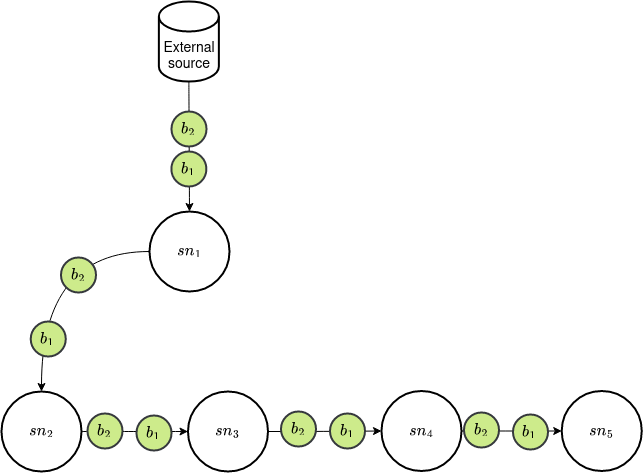
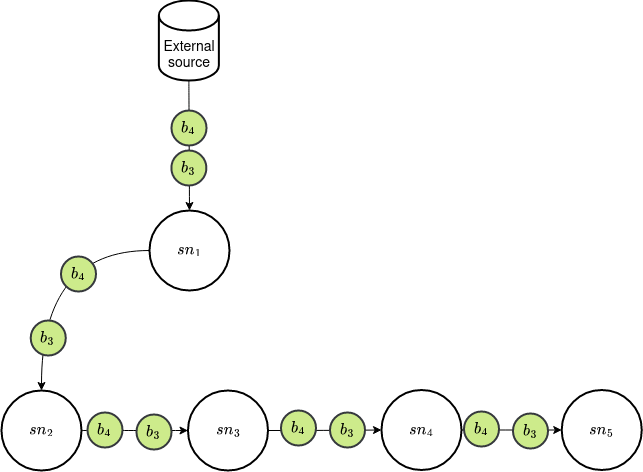
[last version] :fire:

diff --git a/README.md b/README.md
@@ -151,6 +151,162 @@ The result of the replication process is shown below, assuming that /test/sink i
     └── b2
 ```
 
+The second example is create a system that follows the next diagram:
+<div align="center">
+    <a href="#">
+        <img  src="images/ex2.png" alt="Logo" width="450" height="350">
+    </a>
+</div>
+The code that represents the shown diagram is as follows:
+
+```yaml
+[
+  {
+      "who":"",
+      "what":[
+          {
+            "ballId": "b3",
+            "url":"http://www.africau.edu/images/default/sample.pdf",
+            "metadata":{"extension":"pdf"}
+          },
+          {
+            "ballId": "b4",
+            "url":"http://www.africau.edu/images/default/sample.pdf",
+            "metadata":{"extension":"pdf"}
+          }
+      ],
+      "where":[
+          {
+              "id":"sn0_sn1",
+              "metadata":{}
+          }
+      ],
+      "how":{
+          "replicationTechnique":"PASSIVE",
+          "transferType":"PUSH",
+          "deferred": true
+      },
+      "when":{
+          "timing":"REACTIVE",
+          "metadata":{"test":"1"}
+      },
+      "elastic":true
+  },
+    {
+      "who":"sn0_sn1",
+      "what":[
+          {
+            "ballId": "b3",
+            "url":"http://www.africau.edu/images/default/sample.pdf",
+            "metadata":{"extension":"pdf"}
+          },
+          {
+            "ballId": "b4",
+            "url":"http://www.africau.edu/images/default/sample.pdf",
+            "metadata":{"extension":"pdf"}
+          }
+      ],
+      "where":[
+          {
+              "id":"sn0_sn2",
+              "metadata":{}
+          }
+      ],
+      "how":{
+          "replicationTechnique":"PASSIVE",
+          "transferType":"PUSH",
+          "deferred": true
+      },
+      "when":{
+          "timing":"REACTIVE",
+          "metadata":{}
+      },
+      "elastic":true
+  },
+    {
+      "who":"sn0_sn2",
+      "what":[
+          {
+            "ballId": "b3",
+            "url":"http://www.africau.edu/images/default/sample.pdf",
+            "metadata":{"extension":"pdf"}
+          },
+          {
+            "ballId": "b4",
+            "url":"http://www.africau.edu/images/default/sample.pdf",
+            "metadata":{"extension":"pdf"}
+          }
+      ],
+      "where":[
+          {
+              "id":"sn0_sn3",
+              "metadata":{}
+          }
+      ],
+      "how":{
+          "replicationTechnique":"PASSIVE",
+          "transferType":"PUSH",
+          "deferred": true
+      },
+      "when":{
+          "timing":"REACTIVE",
+          "metadata":{}
+      },
+      "elastic":true
+  },
+    {
+      "who":"sn0_sn3",
+      "what":[
+          {
+            "ballId": "b3",
+            "url":"http://www.africau.edu/images/default/sample.pdf",
+            "metadata":{"extension":"pdf"}
+          },
+          {
+            "ballId": "b4",
+            "url":"http://www.africau.edu/images/default/sample.pdf",
+            "metadata":{"extension":"pdf"}
+          }
+      ],
+      "where":[
+          {
+              "id":"sn0_sn4",
+              "metadata":{}
+          }
+      ],
+      "how":{
+          "replicationTechnique":"PASSIVE",
+          "transferType":"PUSH",
+          "deferred": true
+      },
+      "when":{
+          "timing":"REACTIVE",
+          "metadata":{}
+      },
+      "elastic":true
+  }
+]
+```
+
+The result of the replication process is shown below, assuming that /test/sink is the path that was used to place the volumes:
+```bash
+/test/sink
+├── sn0
+│   ├── b3
+│   └── b4
+├── sn0_sn1
+│   ├── b3
+│   └── b4
+├── sn0_sn2
+│   ├── b3
+│   └── b4
+├── sn0_sn3
+│   ├── b3
+│   └── b4
+└── sn0_sn4
+    ├── b3
+    └── b4
+```
 <p align="right">(<a href="#top">back to top</a>)</p>
 
 <!-- CONTRIBUTING -->
